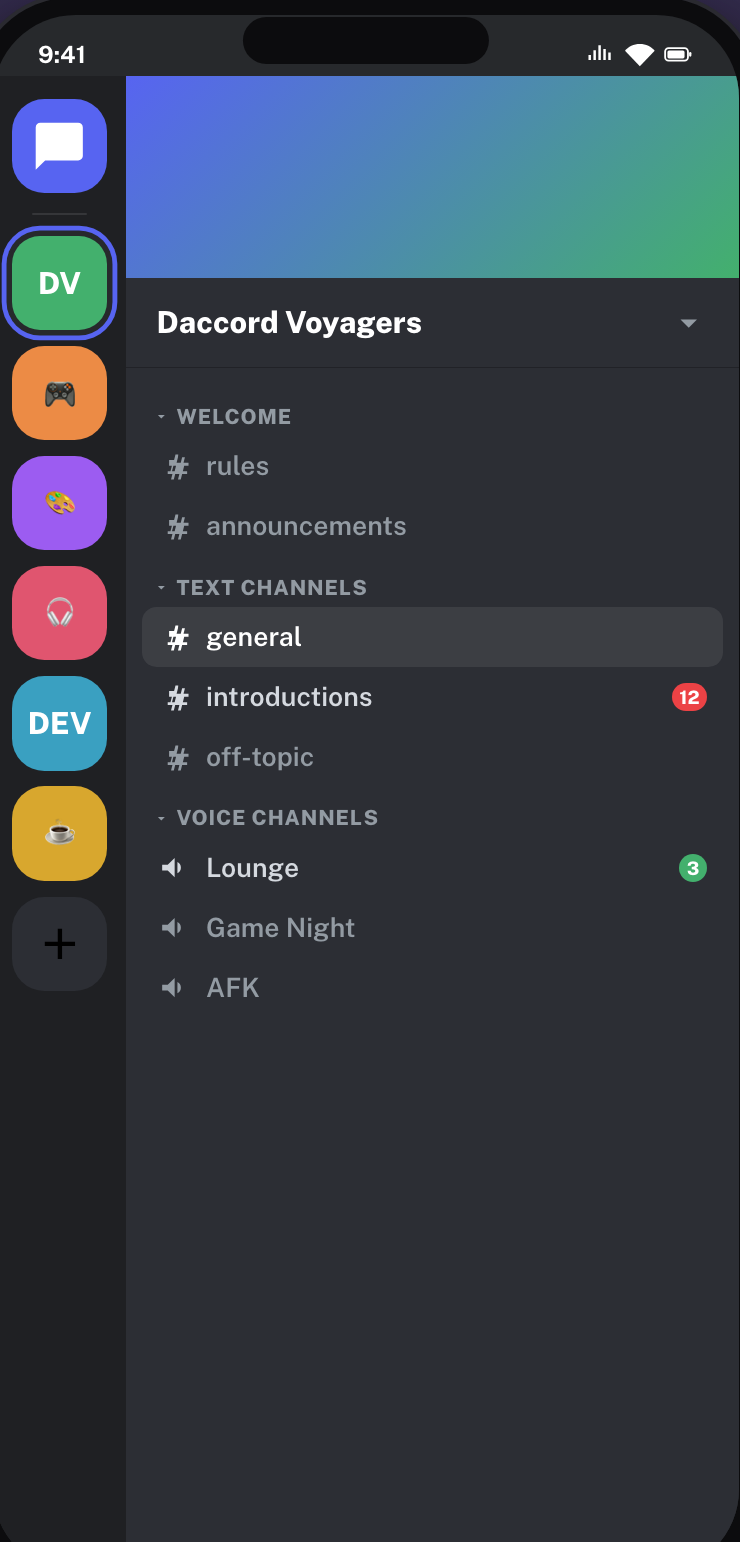
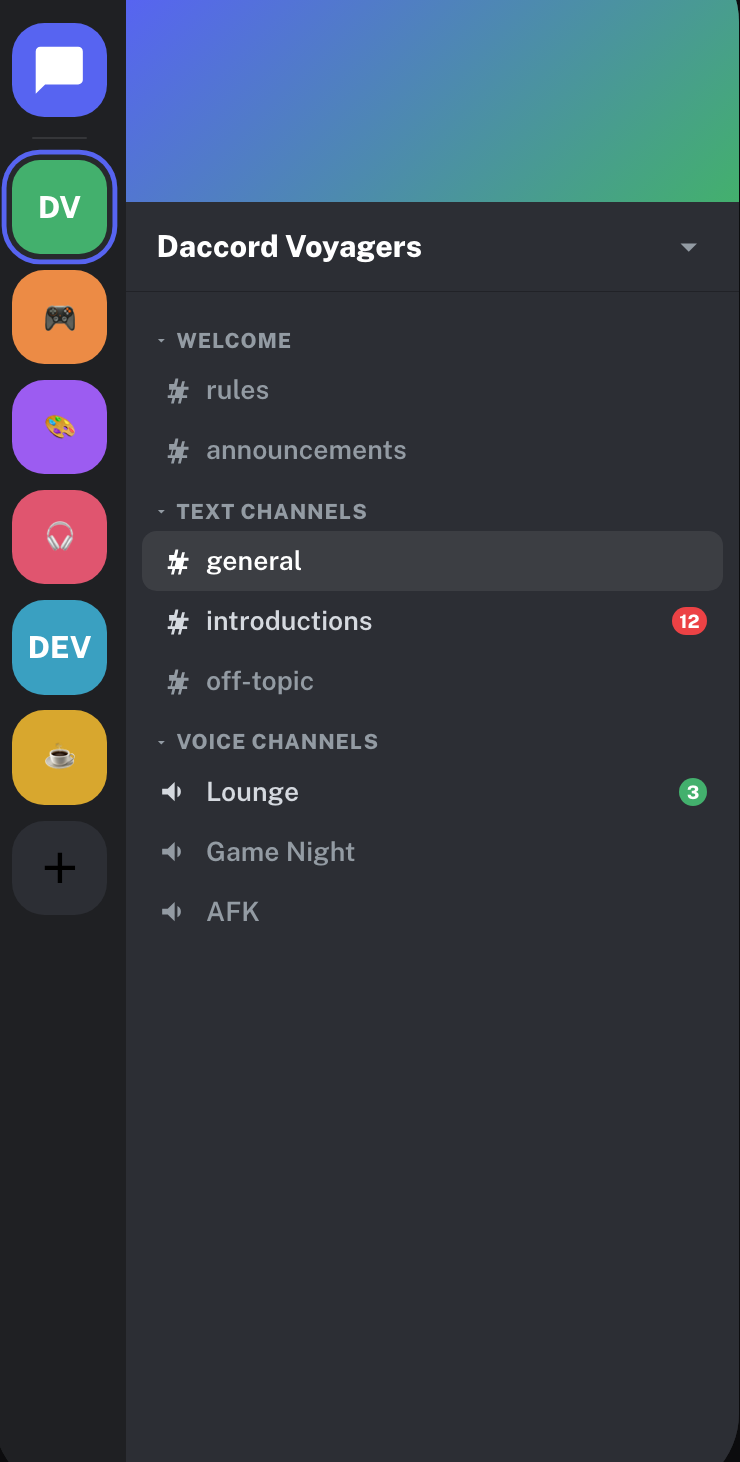
fix(ios): clear guideline 2.3.10 from the App Store screenshots (#301)
* fix(ios): clear guideline 2.3.10 from the App Store screenshots

App Review rejected 0.2.16 (build 160) under 2.3.10 for two things the
generator in store-media/ios-generator/ put into all twelve screenshots.

Scene 6 rendered an iOS/Android/Desktop/Web badge row — the "information
about third-party platforms" the guideline names. The row, its CSS and the
JS that painted it are gone; every scene now has the same pill/headline/
subhead rhythm, so nothing is left hanging where it was. Scene 5's pill
loses "Powered by LiveKit / WebRTC" for "Low-Latency Calls" on the same
principle: the metadata describes the iOS app, not what is under it.

Every inner capture carried a painted 9:41 + signal/Wi-Fi/battery bar that
is not iOS's. They are cropped, not redrawn, so no status bar is shown at
all: each starts at the app's own app bar (740x1462, and 740x1422 for the
signed-out t-06, whose frame sat 44px lower). template.html's .screen
aspect follows the new capture size instead of the old 740/1542, so the
frames still crop rather than stretch.

iPad stops reusing the phone aspect. --screen-ar, the corner radii and the
bezel weight are per-device variables now, and the tablet frame uses an
iPad portrait 1640/2360 so a 2048x2732 render no longer reads as an iPhone
mockup. That frame is wider than a phone capture, so scenes can set `focus`
to pick which end survives the crop; the members and voice scenes anchor
bottom to keep the profile card and the call controls.
[…]

Changed region(s): [[0.0, 0.0, 1.0, 0.6464], [0.9014, 0.5233, 0.9635, 0.5848], [0.9014, 0.4001, 0.9635, 0.4617]]

diff --git a/store-media/ios-generator/template.html b/store-media/ios-generator/template.html
@@ -20,13 +20,22 @@
     -webkit-font-smoothing:antialiased;
     position:relative;
   }
-  /* canvas size + per-device tuning */
+  /* canvas size + per-device tuning.
+     --screen-ar is the framed screen's aspect: the phone frame matches the
+     inner captures in ./inner (740x1462 after the status bar was cropped off;
+     t-06 is 740x1350 and is the one capture the phone frame crops, by 28px a
+     side, which is why nothing in it sits near the left or right edge),
+     the tablet frame uses an iPad portrait aspect so the iPad renders are not
+     an iPhone-shaped mockup. --dev-r/--screen-r/--dev-pad are fractions of
+     --dev-w, so each frame keeps its own corner radii and bezel weight. */
   body[data-device="iphone"]{ --W:1284px; --H:2778px; --padX:104px; --padTop:165px;
     --pill-fs:30px; --h-fs:97px; --h-lh:1.05; --sub-fs:41px; --sub-mt:34px;
-    --dev-w:772px; --gap:104px; --textmax:1080px; }
+    --dev-w:800px; --gap:104px; --textmax:1080px;
+    --screen-ar:740 / 1462; --dev-r:.135; --screen-r:.118; --dev-pad:.018; }
   body[data-device="ipad"]{ --W:2048px; --H:2732px; --padX:170px; --padTop:170px;
     --pill-fs:34px; --h-fs:108px; --h-lh:1.05; --sub-fs:46px; --sub-mt:38px;
-    --dev-w:828px; --gap:96px; --textmax:1500px; }
+    --dev-w:1188px; --gap:96px; --textmax:1500px;
+    --screen-ar:1640 / 2360; --dev-r:.055; --screen-r:.042; --dev-pad:.014; }
 
   #stage{
     width:var(--W); height:var(--H); position:relative; overflow:hidden;
@@ -60,24 +69,23 @@
     margin-top:var(--sub-mt); font-size:var(--sub-fs); line-height:1.4;
     font-weight:400; color:#aeb4c0; max-width:18em; margin-left:auto; margin-right:auto;
   }
-  .badges{ margin-top:1.1em; display:flex; gap:.6em; justify-content:center; flex-wrap:wrap; }
-  .badges span{ font-size:calc(var(--pill-fs) * .94); font-weight:600; color:#c3c9d4;
-    background:rgba(255,255,255,0.05); border:1px solid rgba(255,255,255,0.12);
-    padding:.42em 1em; border-radius:999px; }
-
   .device{
     margin-top:var(--gap); width:var(--dev-w); flex:0 0 auto; z-index:2;
-    background:#050507; border-radius:calc(var(--dev-w) * .135);
-    padding:calc(var(--dev-w) * .018);
+    background:#050507; border-radius:calc(var(--dev-w) * var(--dev-r));
+    padding:calc(var(--dev-w) * var(--dev-pad));
     border:1px solid rgba(255,255,255,0.10);
     box-shadow:0 2px 0 rgba(255,255,255,0.06) inset, 0 50px 130px rgba(0,0,0,0.65);
   }
   .screen{
-    width:100%; aspect-ratio:740 / 1542; overflow:hidden;
-    border-radius:calc(var(--dev-w) * .118);
+    width:100%; aspect-ratio:var(--screen-ar); overflow:hidden;
+    border-radius:calc(var(--dev-w) * var(--screen-r));
     background:#111;
   }
-  .screen img{ width:100%; height:100%; object-fit:cover; object-position:top center; display:block; }
+  /* Never `fill`: the capture is only ever cropped, never stretched. The tablet
+     frame is wider than a capture, so --focus picks which end of the taller
+     phone capture survives that crop. */
+  .screen img{ width:100%; height:100%; object-fit:cover;
+    object-position:var(--focus, top center); display:block; }
 </style>
 </head>
 <body>
@@ -86,7 +94,6 @@
     <div class="pill"><span class="dot"></span><span id="pill"></span></div>
     <h1 id="headline"></h1>
     <p class="sub" id="sub"></p>
-    <div class="badges" id="badges" style="display:none"></div>
   </div>
   <div class="device"><div class="screen"><img id="shot" alt=""></div></div>
 </div>
@@ -100,18 +107,21 @@
         sub:'Connect to as many Daccord servers as you like and switch between them in a tap.' },
     3:{ img:'inner/t-04.png', pill:'Members &amp; Roles',
         h:'Roles, <span class="blue">members</span><br>&amp; rich <span class="green">profiles</span>',
-        sub:'See who&rsquo;s online, browse colour-coded roles, and open a full profile with a tap.' },
+        sub:'See who&rsquo;s online, browse colour-coded roles, and open a full profile with a tap.',
+        focus:'center bottom' },
     4:{ img:'inner/t-05.png', pill:'Server Admin Tools',
         h:'Full <span class="blue">control</span> of<br>your <span class="green">server</span>',
         sub:'Manage roles, permissions, channels, bans and invites &mdash; all without leaving the app.' },
-    5:{ img:'inner/t-02.png', pill:'Powered by LiveKit / WebRTC',
+    5:{ img:'inner/t-02.png', pill:'Low-Latency Calls',
         h:'Crystal-clear <span class="green">voice,</span><br>video &amp; <span class="purple">screen share</span>',
-        sub:'Hop into a call in one tap. Camera, screen sharing and low-latency audio, built right in.' },
+        sub:'Hop into a call in one tap. Camera, screen sharing and low-latency audio, built right in.',
+        focus:'center bottom' },
     6:{ img:'inner/t-06.png', pill:'GPLv3 &middot; Self-Hosted',
         h:'Open source.<br>No ads. <span class="blue">No tracking.</span>',
-        sub:'Your server, your data, your rules. Run your own &mdash; nothing passes through us.',
-        badges:['iOS','Android','Desktop','Web'] },
+        sub:'Your server, your data, your rules. Run your own &mdash; nothing passes through us.' },
   };
+  // App Review guideline 2.3.10: nothing here may name or picture another
+  // platform, and no capture may show a status bar. See docs/app-store-deploy.md.
   const p = new URLSearchParams(location.search);
   const device = p.get('device') === 'ipad' ? 'ipad' : 'iphone';
   const scene = SCENES[p.get('scene') || '1'];
@@ -120,9 +130,10 @@
   document.getElementById('headline').innerHTML = scene.h;
   document.getElementById('sub').innerHTML = scene.sub;
   document.getElementById('shot').src = scene.img;
-  if (scene.badges){
-    const b = document.getElementById('badges'); b.style.display='flex';
-    b.innerHTML = scene.badges.map(x=>`<span>${x}</span>`).join('');
+  // Only the tablet frame crops a capture vertically, so the focal point is an
+  // iPad-only override; the phone frame already matches the capture aspect.
+  if (device === 'ipad' && scene.focus) {
+    document.documentElement.style.setProperty('--focus', scene.focus);
   }
 </script>
 </body>

diff --git a/docs/app-store-deploy.md b/docs/app-store-deploy.md
@@ -164,7 +164,9 @@ for review with automatic release on approval, and ships the Android build to
 `production`. What remains there is **per-app, set once**, and every later
 release reuses it:
 
-- **iOS:** screenshots, the App Privacy questionnaire, and the age rating, in
+- **iOS:** screenshots (generated from `store-media/ios-generator/` — see
+  [guideline 2.3.10](#guideline-2310-what-the-ios-screenshots-may-show) before
+  regenerating them), the App Privacy questionnaire, and the age rating, in
   App Store Connect. A brand-new app also needs its first release created by
   hand before API submissions work.
 - **Google Play:** the store listing, content rating and Data safety
@@ -273,6 +275,86 @@ chosen at all.
 Apple also asks for a screen recording of all three precautions, attached under
 **App Review Information → Notes** in App Store Connect, and it is reused by
 later submissions.
+
+## Guideline 2.3.10: what the iOS screenshots may show
+
+iOS 0.2.16 (build 160, reviewed 2026-08-30 on an iPad Air 11-inch) was rejected
+under *2.3.10 Performance: Accurate Metadata* for two things in the App Store
+screenshots — both generated from `store-media/ios-generator/`:
+
+- **A platform badge row.** Scene 6 of `template.html` rendered `iOS` /
+  `Android` / `Desktop` / `Web` pills. Apple reads any non-iOS platform as
+  "information about third-party platforms".
+- **A painted status bar.** Every capture in `store-media/ios-generator/inner/`
+  had a 9:41 + signal/Wi-Fi/battery bar drawn into it that is not iOS's.
+
+Four rules for anything that regenerates these:
+
+1. **No other platform, anywhere in the copy.** Not a badge, not a pill, not a
+   subhead — no "Android", "Windows", "Linux", "desktop", "web", "all your
+   devices", and no third-party product names either. Describe the iOS app only.
+2. **No status bar at all.** The inner captures are cropped so the app content
+   starts at its own app bar (740x1462, and 740x1350 for `t-06`); `--screen-ar`
+   in `template.html` matches that, so the frame never stretches them. If a
+   capture is ever replaced, crop the status bar off rather than redrawing an
+   iOS-looking one, and re-point `--screen-ar` at the new size.
+3. **iPad gets its own frame aspect.** `body[data-device="ipad"]` uses an iPad
+   portrait `--screen-ar` (1640/2360), not the phone's, so the 2048x2732 renders
+   do not read as an iPhone mockup on an iPad product page. Scenes may set
+   `focus` to choose which end of the taller phone capture that wider frame
+   keeps.
+4. **Nothing may be half-visible.** No frame edge may saw through text or an
+   icon — that reads as unfinished, which is what [guideline
+   2.2](https://github.com/DaccordProject/daccord/issues/292) rejects for. Every
+   crop edge has to land in flat pixels. `t-06` is cropped to 1350 rather than
+   its full height for exactly this reason: its "Private / Encrypted / Open"
+   row was truncated in the source asset, so the row could never be shown
+   whole and is excluded instead. After a regeneration, check both the top and
+   the bottom edge of all twelve, including the two iPad scenes anchored
+   `center bottom`.
+
+Regenerate with `CHROME=<chromium> store-media/ios-generator/render.sh`, then
+copy `store-media/ios-generator/out/` over `store-media/ios-iphone-6.5/` and
+`store-media/ios-ipad-13/` — `out/` itself is scratch and is not committed. The
+sizes are fixed at iPhone 6.5" 1284x2778 and iPad 13" 2048x2732.
+
+Still outstanding: the inner captures are illustrative compositions of the app's
+**phone** layout, and `resolveHomeLayout` puts a real iPad in the wide layout
+(rail + channel list + message column + member roster), which they do not show.
+It shows: `ipad-02` ends with ~14% of the tablet screen empty below the `AFK`
+row, because a phone-width channel list is all that capture has to fill a
+tablet-width frame with. Real wide-layout captures put a message column and a
+member roster in that space, so they fix it structurally — do not fill it with
+decoration in the meantime. The per-device `--screen-ar`, `--dev-w` and radius
+variables exist so a new capture set can be dropped in by editing them alone.
+
+**The blocker is content, not the layout.** The app was built for web off
+`fix/292-ipad-layout` and driven headless at 1180x820 against
+`chat.daccord.gg`: the wide layout renders correctly and would make a good
+tablet screenshot. What is on the public instance cannot be shipped. `#general`
+— the channel a store shot would use — currently reads *"just trying to get
+daccord on the ios store"*, *"verity die"*, and a leftover *"Hello from the
+Daccord Flutter client — App Review walkthrough."*; the roster header says
+`OFFLINE — 100` over names like `123`, `34343434`, `aa` and
+`aidsonaburgerbun`; and the default landing channel `#rules` renders the
+server's own rule 10, *"Discord's-not-the-point rules still apply"* — the exact
+third-party platform reference 2.3.10 rejected us for, in 40px type. Capturing
+that would trade one accurate-metadata problem for a worse one.
+
+Real captures therefore need a **purpose-seeded space**, not the public
+instance: 5-7 spaces so the rail reads as multi-server; categorised channels
+with one unread badge and one populated voice channel; 6-8 written `#general`
+messages from named accounts with avatars, covering a reply, an image, reactions
+and a mention; ~15 named members mostly **online**, grouped Owner / Moderators /
+Members, with one profile card open; ownership of the space so Roles and
+permissions are reachable; and, for the voice scene, 2-3 clients genuinely
+connected with one sharing a screen — that last one cannot be produced from a
+single headless browser. Note also that a fresh account is auto-joined to the
+public space, so it has to be left before capture, and that the landing channel
+must not be one whose content names another platform.
+
+Screenshots are metadata, so a new upload in App Store Connect (Previews and
+Screenshots → View All Sizes in Media Manager) needs no new build.
 
 ## Guideline 2.5.1: no libmpv in the iOS build
 
